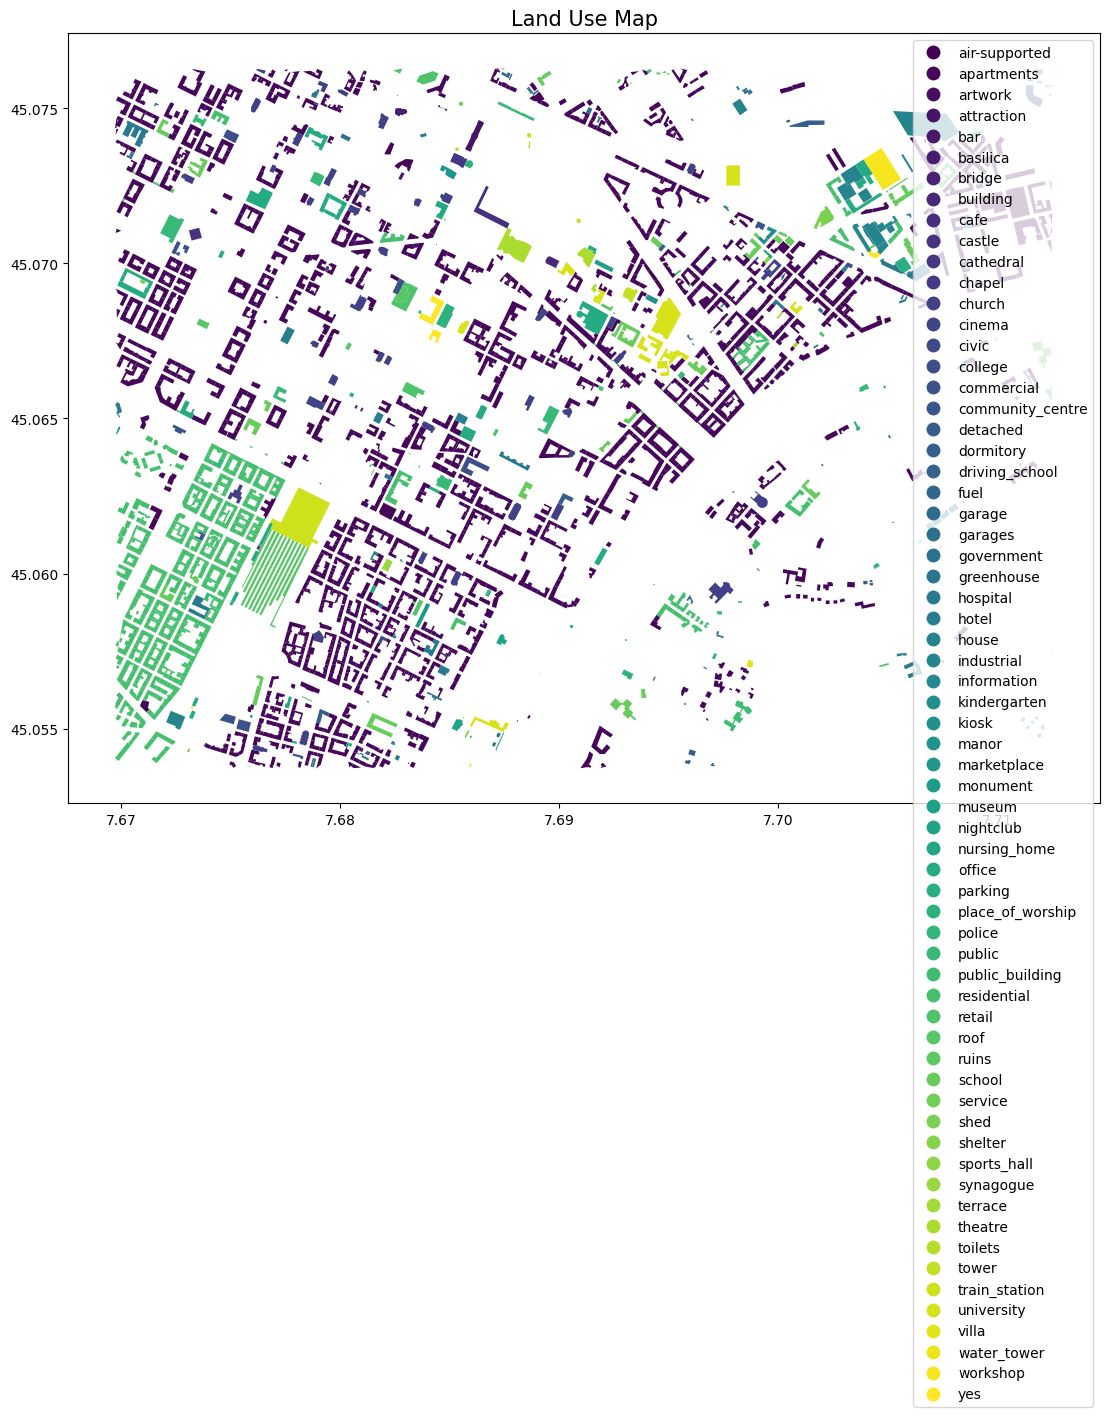
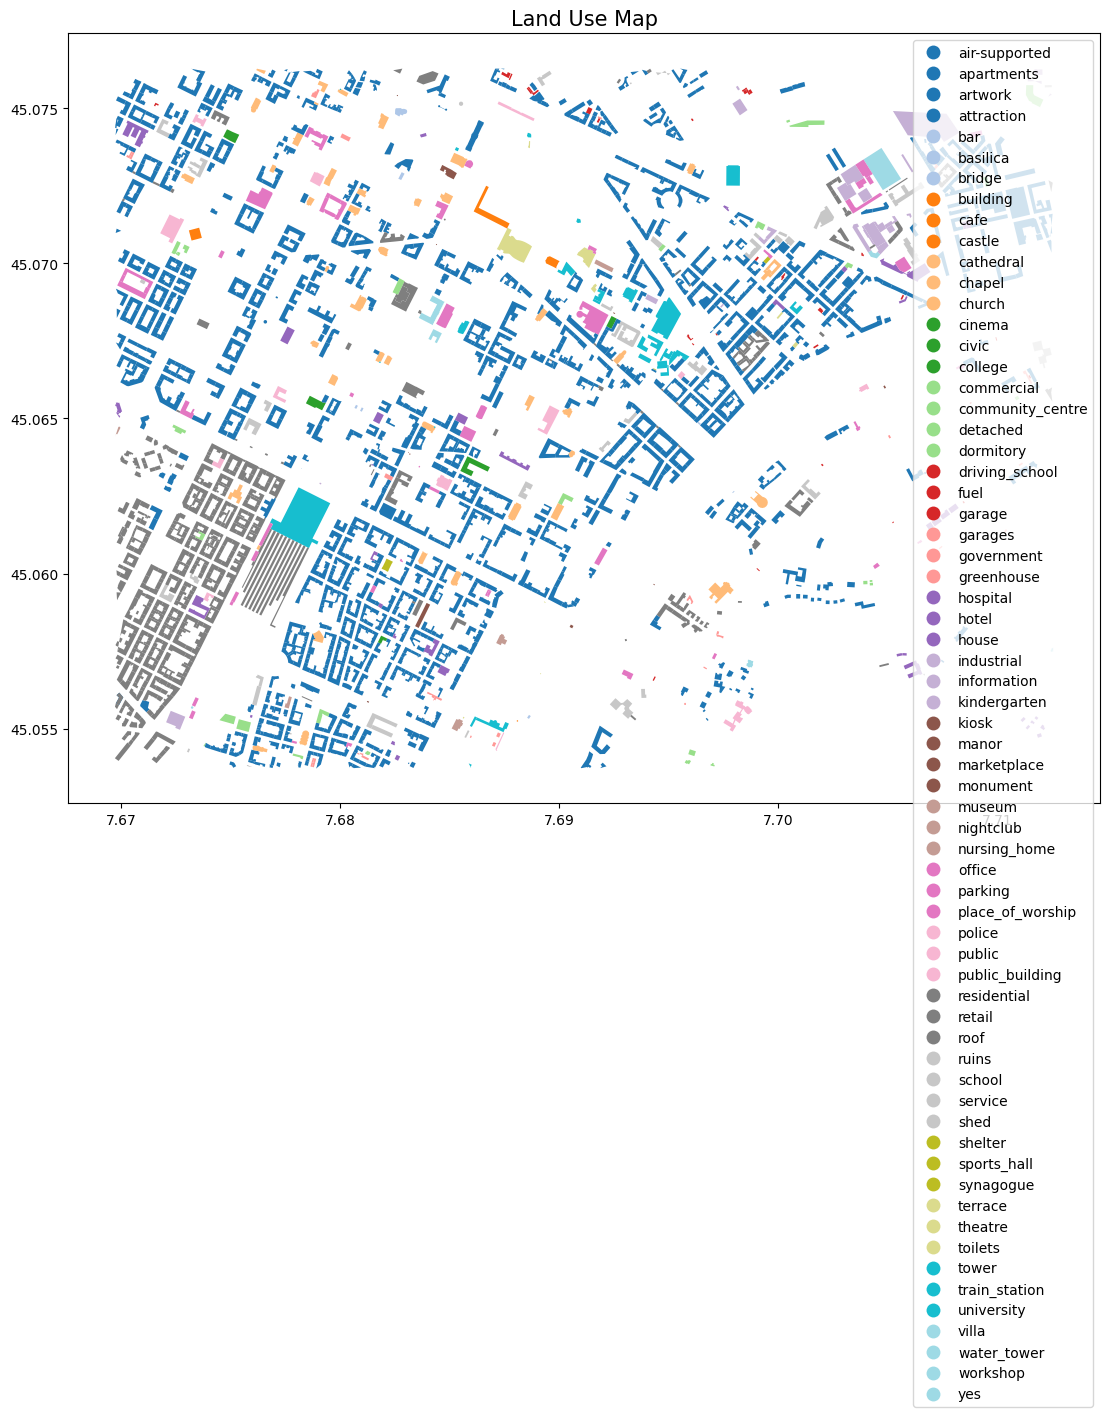
[UPDATE] change color map in visualizations to 'tab20' for better distinction; add data preview after loading

diff --git a/pipeline.py b/pipeline.py
@@ -20,7 +20,7 @@ def load_data(file_path):
 def visualize_data(geo_data, output_path="land_use_map.png"):
     """Create a simple visualization of the GeoDataFrame and save it to a file."""
     fig, ax = plt.subplots(1, 1, figsize=(15, 10))
-    geo_data.plot(column="type", cmap="viridis", legend=True, ax=ax)
+    geo_data.plot(column="type", cmap="tab20", legend=True, ax=ax)
     plt.title("Land Use Map", fontsize=15)
     plt.savefig(output_path, bbox_inches="tight")
     plt.close()
@@ -33,11 +33,11 @@ def visualize_predictions(geo_data, predictions, output_path="predictions_map.pn
     fig, axes = plt.subplots(1, 2, figsize=(30, 10))
 
     # Ground Truth
-    geo_data.plot(column="type", cmap="viridis", legend=True, ax=axes[0])
+    geo_data.plot(column="type", cmap="tab20", legend=True, ax=axes[0])
     axes[0].set_title("Ground Truth Land Use Map", fontsize=15)
 
     # Predictions
-    geo_data.plot(column="predictions", cmap="viridis", legend=True, ax=axes[1])
+    geo_data.plot(column="predictions", cmap="tab20", legend=True, ax=axes[1])
     axes[1].set_title("Predicted Land Use Map", fontsize=15)
 
     plt.savefig(output_path, bbox_inches="tight")
@@ -84,6 +84,8 @@ if __name__ == "__main__":
     try:
         data = load_data(file_path)
         print("Data loaded successfully.")
+
+        print(data.head())
 
         features, target = preprocess_data(data)
         print("Data preprocessing complete.")
